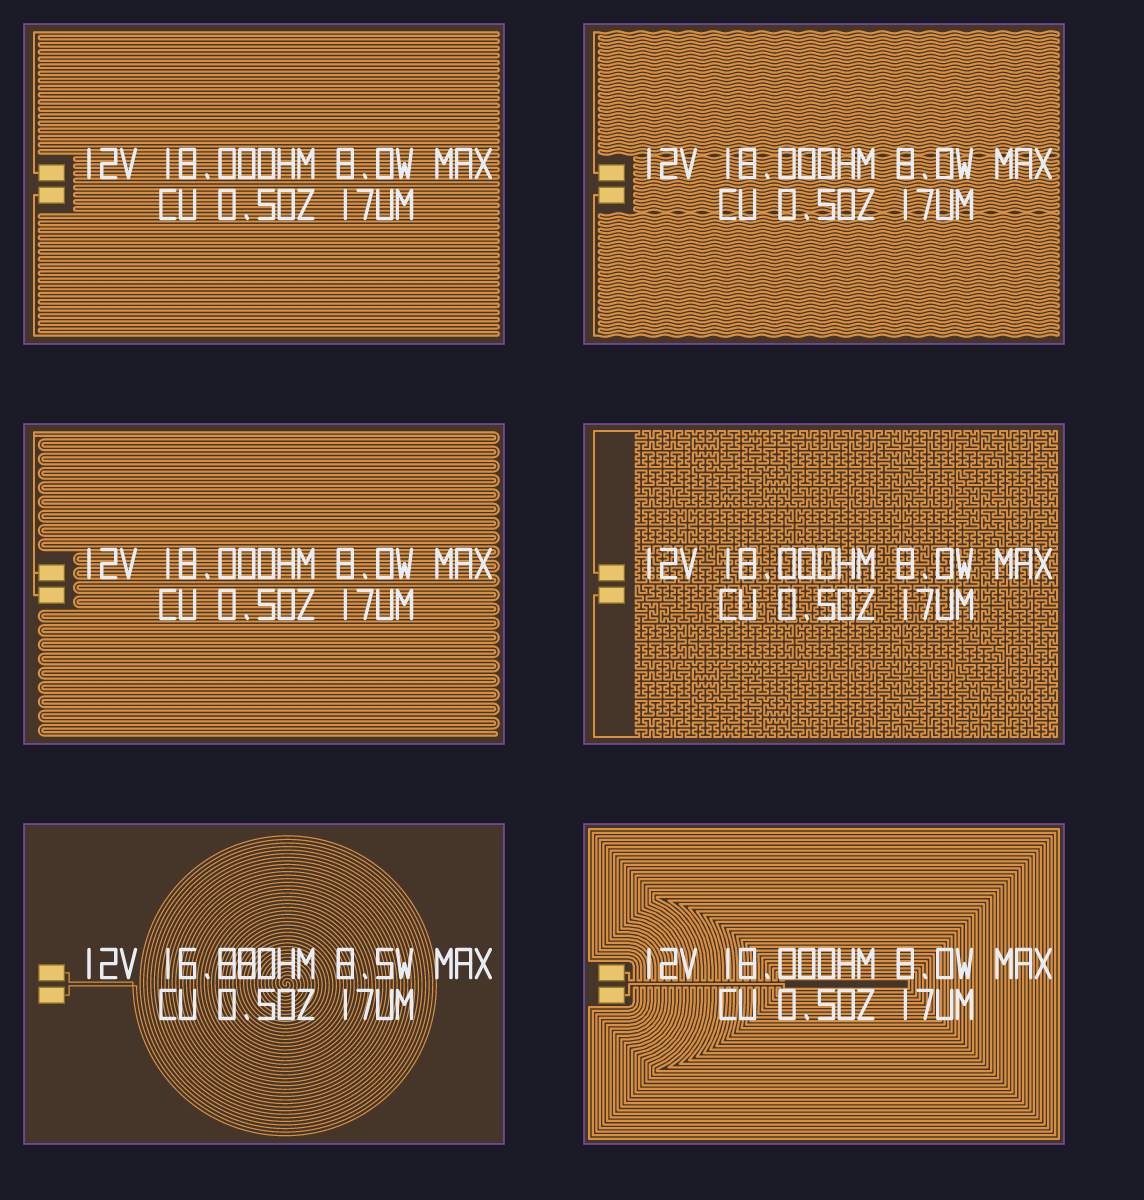
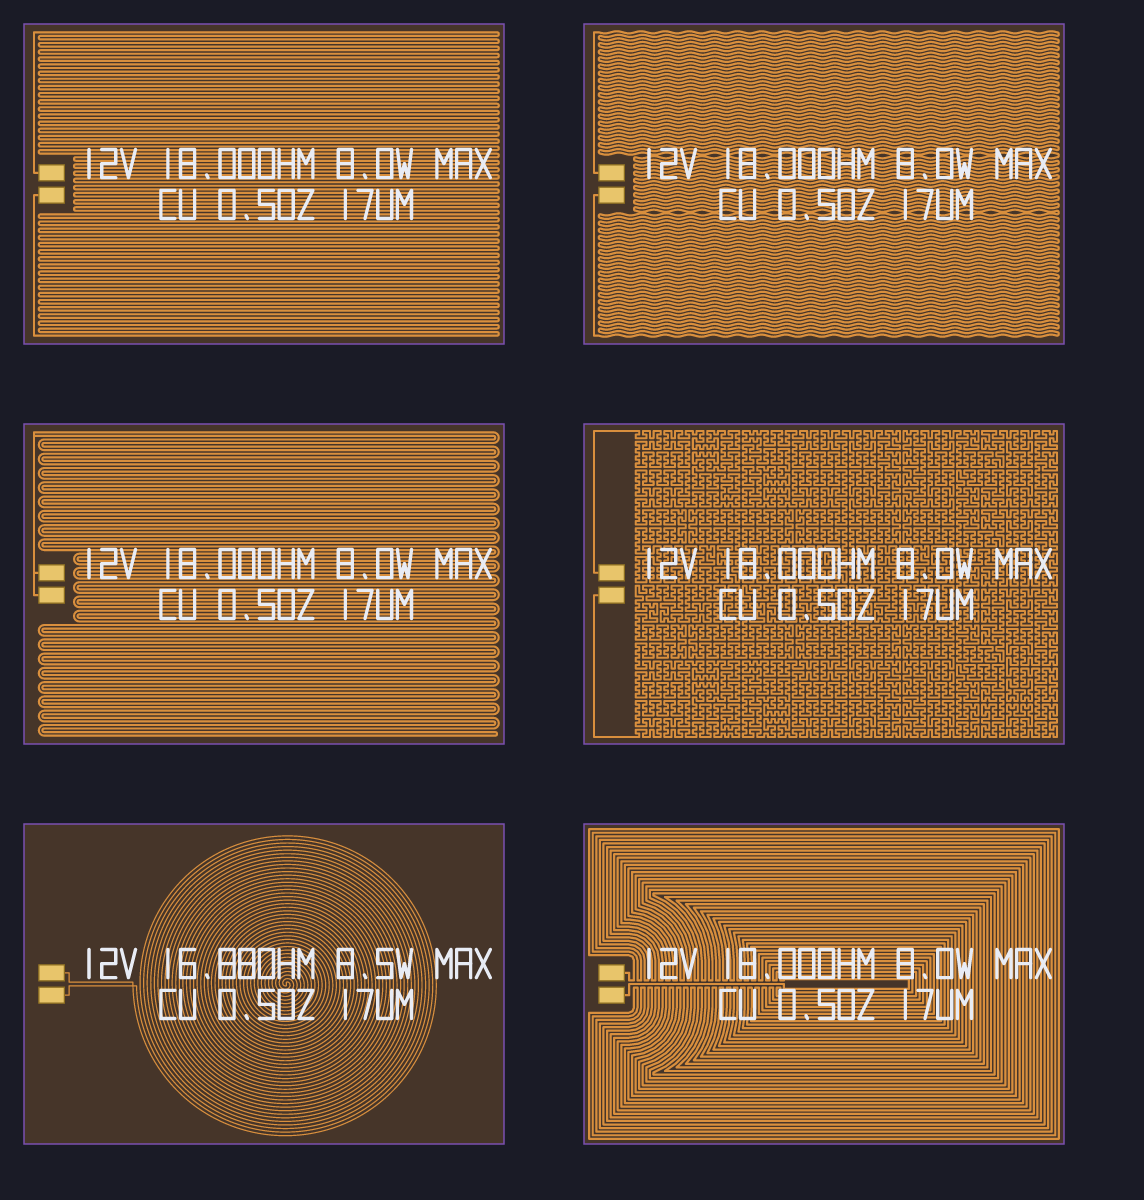
Widen the pad keepout to two routing pitches (1.2 mm floor)
Turn arcs and rows were passing within ~0.35 mm of the solder tabs —
visually touching on the counterflow pattern. The pocket clearance now
scales with the routing pitch: max(1.2 mm, 2*(trace + gap)).

Changed region(s): [[0.5201, 0.8325, 0.6731, 0.8942], [0.5201, 0.74, 0.6731, 0.8017], [0.0306, 0.4933, 0.0918, 0.5242]]

diff --git a/engine/src/terminals.rs b/engine/src/terminals.rs
@@ -73,7 +73,9 @@ pub fn layout(
     let pad_w = 1.6 * s;
     let pad_h = s;
     let pad_gap = (2.0 * gap_mm).max(0.8);
-    let clearance = (2.0 * gap_mm).max(0.5);
+    // Keepout around the pads: two routing pitches (so even a turn arc plus
+    // its trace body clears comfortably), never under 1.2 mm.
+    let clearance = (2.0 * (trace_width_mm + gap_mm)).max(1.2);
 
     let lane = (2.0 * (trace_width_mm + gap_mm)).max(1.2);
     let pocket_w = 2.0 * lane + pad_w;
